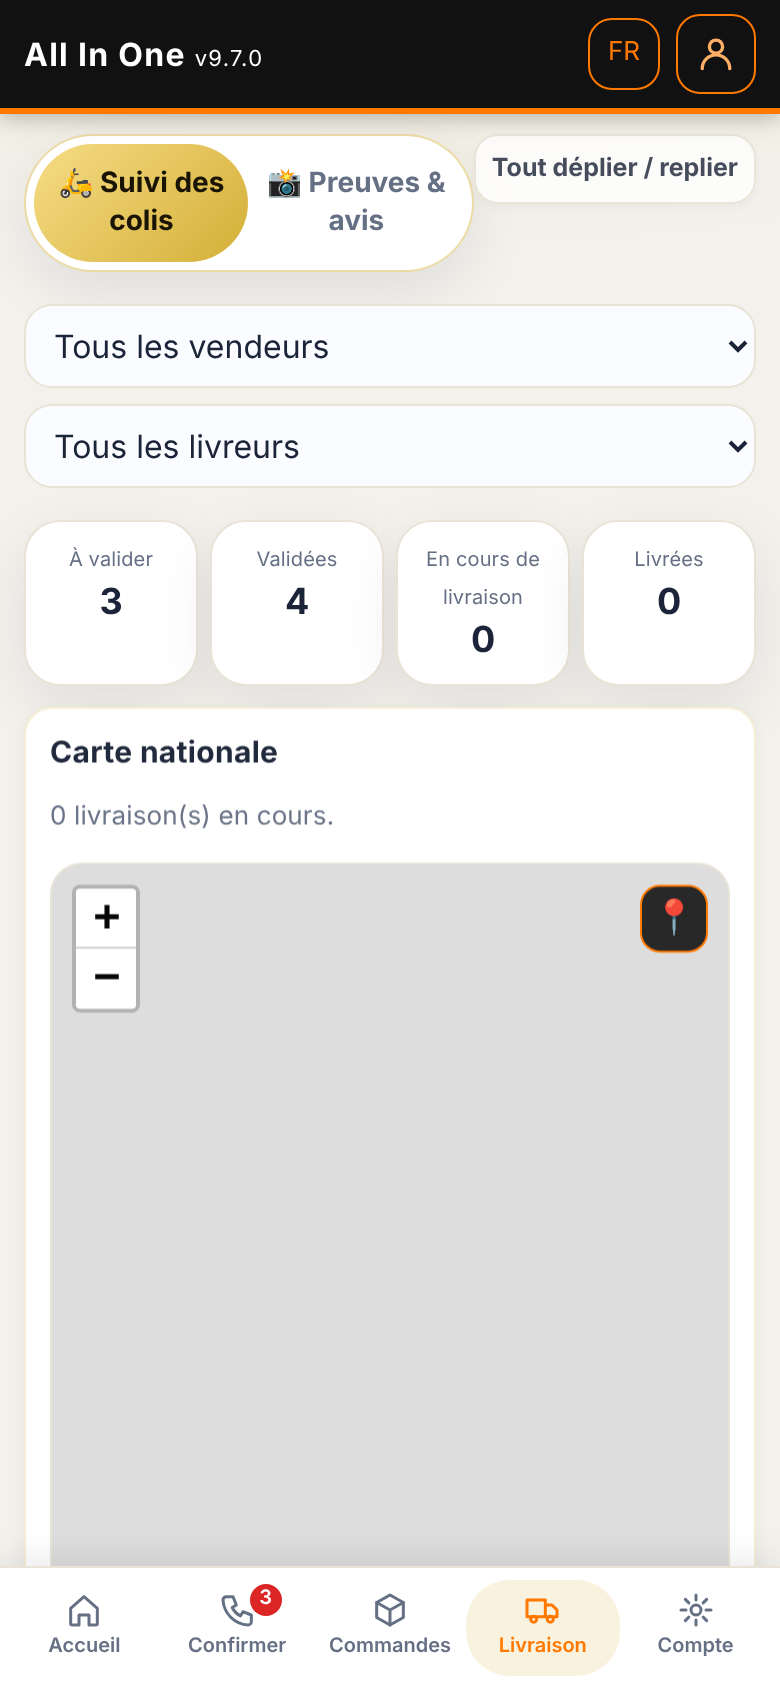
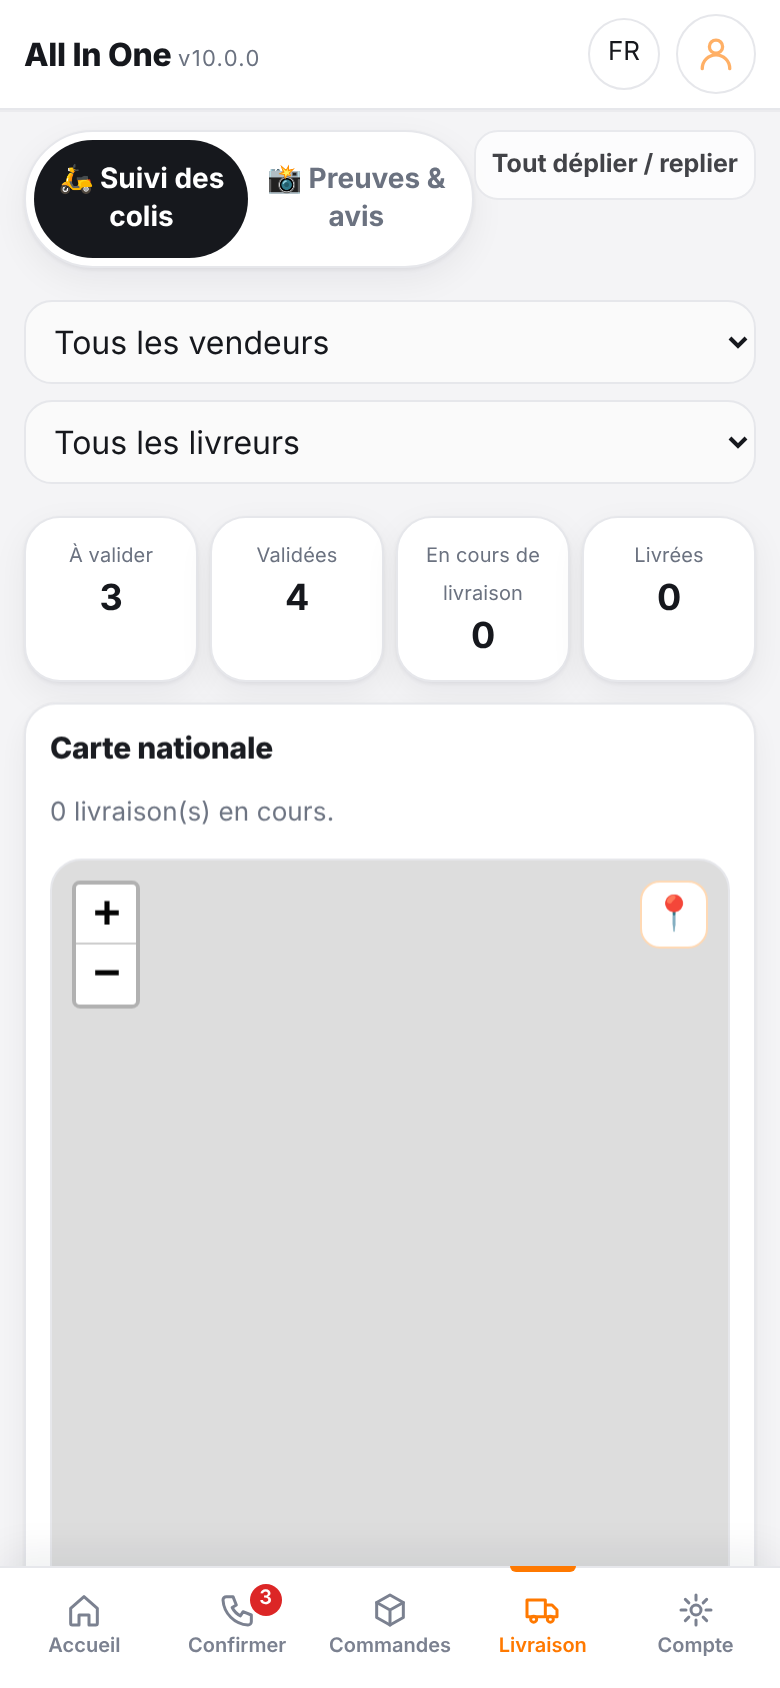
v10.0.0: refonte claire et premium, raccourcis d'accueil, mode d'emploi intégré
Claude-Session: https://claude.ai/code/session_01Q7Zom3BC1tYVNGU7USBKB5

diff --git a/app.js b/app.js
@@ -1,6 +1,6 @@
 /* All In One 8.3.0 - script principal
    Sections repérées : modules réintégrés de la v3 | v5 : code de livraison, avis, demandes, motifs livreur, sati | v6 : catalogue, créneaux, photo de preuve, notifications, da | v7 : automatisations | v7.2 : QR code + NFC (QR hors ligne, aucune dépendance résea | v7.4 : scanner QR (caméra), tags NFC associés, diagnostic */
-var CIT=200000,KEY='cod_v4',OLDKEY='cod_v1',VER='9.7.0',IT=200000;
+var CIT=200000,KEY='cod_v4',OLDKEY='cod_v1',VER='10.0.0',IT=200000;
 var OM={},CXS={l:null};
 var DEFTPL='Bonjour 👋 [boutique] a essayé de vous joindre pour confirmer votre commande de [produit]. Répondez OUI pour confirmer, ou dites-nous à quelle heure vous rappeler. Merci !';
 var DEFSCRIPT='1) Se présenter : « Bonjour, je vous appelle de la part de [boutique]. »\n2) Confirmer le produit, la quantité, le prix et la livraison.\n3) Confirmer la ville et l’adresse exacte (quartier, repère).\n4) Proposer un produit complémentaire ou un pack.\n5) Rappeler : paiement à la livraison, merci de préparer le montant.';
@@ -672,7 +672,7 @@ function morev(){
    ['Développement commercial',[['cat','Catalogue produits','bag','Produits des vendeurs'],['net','Réseau professionnel','net','Grossistes, acheteurs, livreurs'],['deals','Affaires & marges','chart','Intermédiation, simulateur de marge'],['sim','Prévisions de revenus','chart','Projection des commissions'],['pro','Partenariat livraison','truck','Reversements, proposition commerciale']]],
    ['Outils terrain',[['tools','Codes QR & étiquettes NFC','box','Partager, scanner, associer'],['calc','Calculatrice','calc','Calculs rapides']]],
    ['Prospection',[['wl','Carnet de prospects','wallet','Appels sortants et suivi']]],
-   ['Profil & paramètres',[['set','Mon profil','user','Photo, carte, coordonnées','p'],['set','Tarifs & messages','sliders','Commissions, messages types','a'],['set','Sécurité & données','box','Code, biométrie, sauvegarde','s'],['set','Connexions','link','Suivi en direct, import, cloud','c'],['ver','Version & mises à jour','sliders','Version installée, nouveautés, mise à jour']]]];
+   ['Profil & paramètres',[['set','Mon profil','user','Photo, carte, coordonnées','p'],['set','Tarifs & messages','sliders','Commissions, messages types','a'],['set','Sécurité & données','box','Code, biométrie, sauvegarde','s'],['set','Connexions','link','Suivi en direct, import, cloud','c'],['ver','Version & mises à jour','sliders','Version installée, nouveautés, mise à jour'],['aide','Mode d’emploi','chat','Guide pas à pas de chaque écran']]]];
   return mb()+G.map(function(g){return '<div class="sec">'+g[0]+'</div><div class="pg">'+g[1].map(function(i){return '<div class="card tile" data-act="tab" data-v="'+i[0]+'"'+(i[4]?' data-sp="'+i[4]+'"':'')+'><div class="ti">'+ico(i[2])+'</div><b>'+i[1]+'</b><div class="mut">'+i[3]+'</div></div>'}).join('')+'</div>'}).join('');
 }
 function toolv(){return mb()+'<div class="sec">QR code &amp; NFC</div>'+qacc()}
@@ -747,11 +747,11 @@ function render(){
   document.documentElement.dir=(DB&&DB.set.lang==='ar')?'rtl':'ltr';
   if(S.locked||!DB){$('nav').innerHTML='';$('hs').innerHTML='';lockv();return}
   $('ver').textContent='v'+VER;$('hs').innerHTML=hdrAv();$('hs').setAttribute('aria-label','Mon profil');$('hl').textContent=DB.set.lang==='ar'?'AR':'FR';
-  var MORE=['more','pod','wa','rap','auto','vend','fin','tools','cat','net','deals','wl','wn','calc','sim','pro','set','ver'];
+  var MORE=['more','pod','wa','rap','auto','vend','fin','tools','cat','net','deals','wl','wn','calc','sim','pro','set','ver','aide'];
   var pe=DB.orders.filter(function(o){return o.status==='En attente'&&callDue(o)}).length;
   var M=[['home','Accueil','home'],['calls','Confirmer','phone'],['ord','Commandes','box'],['del','Livraison','truck'],['more','Compte','gear']];
   $('nav').innerHTML=M.map(function(m){var on=S.tab===m[0]||(m[0]==='more'&&MORE.indexOf(S.tab)>=0);return '<button data-act="tab" data-v="'+m[0]+'" class="'+(on?'on':'')+'">'+ico(m[2])+T(m[1])+(m[0]==='calls'&&pe?'<span class="bd">'+pe+'</span>':'')+'</button>'}).join('');
-  var V={home:home,calls:calls,ord:ordv,del:delv,vend:vendv,fin:finv,set:setv,more:morev,tools:toolv,cat:catv,net:net,deals:dealsv,wl:wlist,wn:wnew,calc:calcv,sim:simv,pro:prov,ver:verv}[S.tab]||home;
+  var V={home:home,calls:calls,ord:ordv,del:delv,vend:vendv,fin:finv,set:setv,more:morev,tools:toolv,cat:catv,net:net,deals:dealsv,wl:wlist,wn:wnew,calc:calcv,sim:simv,pro:prov,ver:verv,aide:aidev}[S.tab]||home;
   var back=(MORE.indexOf(S.tab)>0)?'<button class="b full sm" data-act="tab" data-v="more" style="margin-bottom:10px">← Compte</button>':'';
   $('app').innerHTML=back+V();
   S.msg='';S.err=false;
@@ -1984,7 +1984,7 @@ function MX(due,pe,gm,s,tr,tc){
   cd=function(t,sb,body,btns){return '<div class="mxc"><h2>'+t+'</h2><div class="mut">'+sb+'</div>'+body+'<div class="btns">'+btns+'</div></div>'};
   return '<div class="mx"><div class="gr">'+(hr<5||hr>=18?'Bonsoir':'Bonjour')+' '+e(nm)+'</div><div class="gs">'+e(sub)+'</div></div>'
    +'<div class="mxw"><div class="deck" id="deck">'
-   +cd('Résumé du mois','Solde au <b style="color:#d4742a">'+dt+'</b>',bx('box','Confirmation',pct(s.ok,tr),'chart',fm(gm)+' <small>DH</small>','Gagné'),bt('Appels ('+due.length+')','calls',1)+bt('Relances','wa')+bt('Ajouter','ord',0,' data-s="add"'))
+   +cd('Résumé du mois','Solde au <b style="color:#c2570a">'+dt+'</b>',bx('box','Confirmation',pct(s.ok,tr),'chart',fm(gm)+' <small>DH</small>','Gagné'),bt('Appels ('+due.length+')','calls',1)+bt('Relances','wa')+bt('Ajouter','ord',0,' data-s="add"'))
    +cd('Livraison','Ce mois-ci',bx('truck','Taux de livraison',pct(s.liv,s.liv+s.ref),'box',(s.ref||0)+' <small>refusées</small>','Refus'),bt('Suivi','del',1)+bt('Preuves & avis','pod'))
    +cd('Finances','Ce mois-ci',bx('chart','À encaisser',fm(tc||0)+' <small>DH</small>','store',DB.vend.length,'Vendeurs'),bt('Finances','fin',1))
    +'</div><div class="dots" id="mdots"><i class="on"></i><i></i><i></i></div></div>';
@@ -3081,7 +3081,7 @@ document.addEventListener('click',function(ev){var t=ev.target;if(t&&t.getAttrib
 
 /* ===== 9.7.0 : menu « Version & mises à jour » ; plus de nom ni de version sur l'accueil ===== */
 var VU={msg:'',t:0,nv:''};
-var NEWS=[['9.7.0','Menu Version & mises à jour ; accueil épuré.'],['9.6.0','Menu Plus en groupes ; liste noire automatique ; alerte colis en retard.'],['9.5.0','Écrans simplifiés : l’essentiel d’abord, le reste dans « Plus d’options ».'],['9.4.0','Historique du colis, retour sous 7 jours, commander à nouveau, preuve d’achat.'],['9.3.0','Suivi client en chronologie datée avec détail de la commande.']];
+var NEWS=[['10.0.0','Nouveau design clair et premium, raccourcis sur l’accueil, mode d’emploi intégré.'],['9.7.0','Menu Version & mises à jour ; accueil épuré.'],['9.6.0','Menu Plus en groupes ; liste noire automatique ; alerte colis en retard.'],['9.5.0','Écrans simplifiés : l’essentiel d’abord, le reste dans « Plus d’options ».'],['9.4.0','Historique du colis, retour sous 7 jours, commander à nouveau, preuve d’achat.'],['9.3.0','Suivi client en chronologie datée avec détail de la commande.']];
 function verv(){
   var sa=false;try{sa=window.matchMedia('(display-mode: standalone)').matches||navigator.standalone===true}catch(x){}
   var on=navigator.onLine!==false;
@@ -3111,3 +3111,21 @@ function vApply(){
 document.addEventListener('click',function(ev){var b=ev.target.closest&&ev.target.closest('[data-vu]');if(!b)return;ev.stopPropagation();
   if(b.getAttribute('data-vu')==='chk')vCheck();else if(b.getAttribute('data-vu')==='apply')vApply()},true);
 (function(){var _r7=render;render=function(){_r7();try{var h=document.querySelector('header h1');if(h)h.style.visibility=(S.tab==='home'&&DB&&!S.locked)?'hidden':''}catch(x){}}})();
+
+/* ===== 10.0.0 : refonte clair & premium, raccourcis d'accueil, mode d'emploi intégré ===== */
+var AIDE=[
+['Démarrer en 3 minutes',['Ouvrez l’onglet « Compte » puis « Vendeurs partenaires » et touchez « Ajouter un vendeur ».','Ajoutez vos commandes : bouton « Ajouter » dans Commandes, ou importez un fichier (exemple-commandes.csv).','Allez dans « Confirmer » : appelez chaque client, puis touchez Confirmé ou Annulé.','Envoyez le lien de suivi au client : il suit son colis comme sur Jumia.']],
+['Accueil',['Il résume la journée : commandes en attente, taux de confirmation, gains en DH.','Les raccourcis ronds ouvrent directement Confirmer, Commandes, Livraison et Vendeurs.','« À vérifier » liste les commandes sans livreur ou à corriger.']],
+['Confirmer les commandes',['Appeler ouvre le téléphone. Confirmé valide, Annulé clôt la commande.','Après 3 tentatives sans réponse, le client est marqué injoignable et relancé par WhatsApp.','« Plus d’options » contient les actions rares : note, report, modification.']],
+['Commandes',['Filtrez par vendeur, statut, ou tapez un nom dans « Rechercher ».','Une commande livrée propose « Historique du colis » et « Commander à nouveau ».','Retour gratuit affiché pendant 7 jours après la livraison.']],
+['Livraison et suivi client',['Les compteurs montrent à valider, validées, en cours et livrées.','Le client reçoit un lien avec la chronologie datée de son colis.','Un code secret protège la remise ; la preuve de livraison est conservée.']],
+['Vendeurs et finances',['Chaque vendeur a sa fiche, son QR code et ses commissions.','« Finances » affiche total gagné, déjà reçu et à encaisser, par vendeur et par ville.','Solde négatif : le vendeur vous doit de l’argent. Positif : crédit déjà payé.']],
+['Automatisations',['Relances WhatsApp prêtes à envoyer pour les clients injoignables.','Liste noire automatique des clients qui refusent trop souvent.','Alerte quand un colis est en retard.','Réglage : Compte → Pilotage → Automatisations.']],
+['Données, sécurité et mises à jour',['Vos données restent chiffrées sur votre appareil. Sauvegardez-les régulièrement : Compte → Sécurité & données.','Compte → Version & mises à jour : cherchez et installez la dernière version sans rien perdre.','Hors ligne, l’appli continue de fonctionner ; tout se synchronise au retour du réseau.']]];
+function aidev(){
+  return mb()+'<div class="sec">Mode d’emploi</div><div class="card"><b>Bienvenue dans All In One</b><p class="mut" style="margin:4px 0 0">Touchez un sujet pour le déplier. Chaque étape se fait en quelques touches.</p></div>'
+   +AIDE.map(function(a,i){return '<details class="mg" data-om="aide'+i+'"'+(i===0?' open':'')+'><summary>'+(i+1)+'. '+e(a[0])+'</summary><div class="card"><ol class="aid">'+a[1].map(function(x){return '<li>'+e(x)+'</li>'}).join('')+'</ol></div></details>'}).join('')
+   +'<div class="card"><p class="mut">Une question ? Écrivez-nous : <a href="mailto:logisticsallinoneamk@gmail.com">logisticsallinoneamk@gmail.com</a></p></div>'}
+(function(){var _r10=render;render=function(){_r10();try{var a=document.getElementById('app');if(!a)return;var old=document.getElementById('qa10');if(old)old.remove();
+  if(S.tab==='home'&&DB&&!S.locked&&a.firstChild){var q=[['calls','Confirmer','phone'],['ord','Commandes','box'],['del','Livraison','truck'],['vend','Vendeurs','store'],['aide','Aide','chat']];
+   var d=document.createElement('div');d.id='qa10';d.className='qa';d.innerHTML=q.map(function(x){return '<button class="qb" data-act="goto" data-v="'+x[0]+'"><span class="qi">'+ico(x[2])+'</span><span>'+x[1]+'</span></button>'}).join('');a.insertBefore(d,a.firstChild)}}catch(x){}}})();

diff --git a/styles.css b/styles.css
@@ -454,3 +454,62 @@ details.mg>summary::-webkit-details-marker{display:none}
 details.mg>summary:after{content:"›";float:right;transition:transform .15s}
 details.mg[open]>summary:after{transform:rotate(90deg)}
 details.mg>.pg{margin-top:8px}
+
+/* ===== 10.0.0 : design clair & premium (inspiré des grandes plateformes : fond blanc, orange vif, noir de contraste) ===== */
+:root,:root:root{color-scheme:light;--bg:#f4f4f6;--card:#fff;--tx:#16181d;--mut:#6b7280;--br:#e6e7eb;--ac:#d95700;--gold:#ff7900;--gold2:#ffb066;--ok:#15803d;--okbg:#e5f6ec;--ko:#b42318;--kobg:#fdecea;--wa:#9a5b00;--wabg:#fff3e0;--in:#fafafa;--rad:16px;--sh:0 1px 2px rgba(16,24,40,.06),0 6px 18px rgba(16,24,40,.06)}
+@media (prefers-color-scheme:dark){:root,:root:root{--bg:#f4f4f6;--card:#fff;--tx:#16181d;--mut:#6b7280;--br:#e6e7eb;--ac:#d95700;--ok:#15803d;--okbg:#e5f6ec;--ko:#b42318;--kobg:#fdecea;--wa:#9a5b00;--wabg:#fff3e0;--in:#fafafa}}
+body{background:var(--bg);color:var(--tx);font-family:"Inter",-apple-system,"Segoe UI",system-ui,Roboto,Arial,sans-serif}
+header{background:#fff!important;border-bottom:1px solid var(--br)!important;box-shadow:0 1px 0 rgba(16,24,40,.04)!important;-webkit-backdrop-filter:none;backdrop-filter:none}
+header h1,header h1 small{color:var(--tx)!important}
+header h1{font-weight:800;letter-spacing:-.01em}header h1 small{color:var(--mut)!important}
+header button{background:#fff!important;border:1px solid var(--br)!important;color:var(--tx)!important;border-radius:999px}
+h2{font-weight:800;letter-spacing:-.01em;color:var(--tx)}
+.card{background:#fff;border:1px solid var(--br);box-shadow:var(--sh);border-radius:var(--rad)}
+.sec{color:var(--tx);font-weight:800;letter-spacing:.12em}
+.sec:after{background:linear-gradient(90deg,#ff7900,transparent)}
+.b{border-radius:12px;border:1px solid var(--br);background:#fff;color:var(--tx);box-shadow:none}
+.b.pri{background:#ff7900;color:#fff;border-color:#ff7900;box-shadow:0 6px 14px rgba(255,121,0,.28);font-weight:800}
+.b.pri:active{background:#e86d00}
+.b.ok{background:var(--okbg);color:var(--ok)}.b.ko{background:var(--kobg);color:var(--ko)}
+input:focus,select:focus,textarea:focus{outline:2px solid #ff7900}
+.chip.on{background:#16181d;border-color:#16181d;color:#fff}
+.tag{background:var(--wabg);color:var(--wa)}
+/* accueil */
+.hero{background:#fff!important;color:var(--tx)!important;border:1px solid var(--br)!important;box-shadow:var(--sh)}
+.hero .mut,.hero .arr{color:var(--ac)!important}
+.bn,.bn.g2,.bn.g3{border:0;color:#fff;box-shadow:0 10px 24px rgba(16,24,40,.12)}
+.bn{background:linear-gradient(135deg,#ff7900,#ff9d3d)}
+.bn.g2{background:linear-gradient(135deg,#16181d,#3a3f4a)}
+.bn.g3{background:linear-gradient(135deg,#0f766e,#14b8a6)}
+.bn small{color:rgba(255,255,255,.85)}
+.bn span.go{background:#fff;color:#16181d}
+.bn:after{background:radial-gradient(circle,rgba(255,255,255,.28),transparent 70%)}
+.dots i.on{background:#ff7900}
+.qa{display:grid;grid-template-columns:repeat(5,1fr);gap:6px;margin:0 0 12px}
+.qb{border:0;background:none;display:flex;flex-direction:column;align-items:center;gap:6px;font:inherit;font-size:11.5px;font-weight:700;color:var(--tx);cursor:pointer;padding:4px 0}
+.qb .qi{width:52px;height:52px;border-radius:50%;background:#fff3e6;color:#ff7900;display:flex;align-items:center;justify-content:center;border:1px solid #ffd9b3;transition:transform .12s}
+.qb .qi svg{width:24px;height:24px}
+.qb:active .qi{transform:scale(.92);background:#ff7900;color:#fff}
+/* tuiles et menus */
+.tile .ti{background:#fff3e6;color:#ff7900}
+details.mg>summary{background:#fff;border:1px solid var(--br);border-radius:14px;font-weight:700}
+ol.aid{margin:0;padding-left:20px}ol.aid li{padding:5px 0;line-height:1.45}
+/* navigation basse */
+nav{background:#fff!important;border-top:1px solid var(--br)!important;box-shadow:0 -6px 20px rgba(16,24,40,.07)!important}
+nav button{color:#7b8190!important}
+nav button.on{color:#ff7900!important;background:none!important;position:relative}
+nav button.on:before{content:"";position:absolute;top:-7px;left:28%;right:28%;height:3px;border-radius:0 0 4px 4px;background:#ff7900}
+nav button.on .i{color:#ff7900!important}
+.locbtn{background:#fff;color:#ff7900;border-color:#ffd9b3}
+@media (max-width:360px){.qb .qi{width:46px;height:46px}.qb{font-size:10.5px}}
+/* 10.0.0 – finitions : bandeau d'accueil, onglets, avatars */
+.mx{background:linear-gradient(135deg,#ff7900,#ff9d3d 70%,#ffb066)!important;color:#fff!important}
+.gr{color:#fff}.gs{color:#fff!important;opacity:.95}
+.mx .mut,.mx small{color:rgba(255,255,255,.9)}
+.seg{border:1px solid var(--br)!important;background:#fff}
+.seg button.on{background:#16181d!important;color:#fff!important}
+.av,.dc .orb{background:#ffe8d1!important;color:#c2570a!important}
+.k.o{background:#ff7900!important;color:#fff!important}
+.bars i.n,.pbar i{background:#ff7900!important}
+.pfc:before{background:#ff7900!important}
+.chip.on{background:#16181d!important}

diff --git a/sw.js b/sw.js
@@ -1,4 +1,4 @@
-var V='cod-v65',T='cod-tiles-v3',F=['./','index.html','styles.css','app.js','cloud.js','manifest.webmanifest','icon-192.png','icon-512.png','icon-512-maskable.png','privacy.html','vendor/leaflet/leaflet.js','vendor/leaflet/leaflet.css'];
+var V='cod-v66',T='cod-tiles-v3',F=['./','index.html','styles.css','app.js','cloud.js','manifest.webmanifest','icon-192.png','icon-512.png','icon-512-maskable.png','privacy.html','vendor/leaflet/leaflet.js','vendor/leaflet/leaflet.css'];
 var API=/firebaseio\.com|router\.project-osrm\.org|nominatim\.openstreetmap\.org|photon\.komoot\.io/;
 var TILE=/basemaps\.cartocdn\.com|tile\.openstreetmap\.org|cdnjs\.cloudflare\.com/;
 var LINK=/[?&](t|l|v|go|card|cf|rep)=/;

diff --git a/index.html b/index.html
@@ -4,7 +4,7 @@
 <meta http-equiv="Content-Security-Policy" content="default-src 'self'; script-src 'self'; style-src 'self' 'unsafe-inline'; img-src 'self' data: blob: https:; font-src 'self' data:; connect-src 'self' https:; frame-src 'none'; object-src 'none'; base-uri 'self'; form-action 'self'">
 <title>All In One · Amk Logistique</title>
 <link rel="manifest" href="manifest.webmanifest">
-<meta name="theme-color" content="#14213d">
+<meta name="theme-color" content="#ffffff">
 <link rel="icon" href="icon-192.png">
 <link rel="apple-touch-icon" href="icon-192.png">
 <link rel="stylesheet" href="styles.css"></head>

diff --git a/README.md b/README.md
@@ -35,6 +35,11 @@ La clé propriétaire donne les droits de publication et de lecture des suivis :
 1. GitHub > dépôt > Add file > Upload files : envoyer les fichiers ci-dessus, puis Commit changes.
 2. Rouvrir l'appli deux fois (mise à jour du cache). Le numéro de version s'affiche en haut.
 
+## Changements v10.0.0
+- Refonte visuelle : thème clair et épuré (blanc, orange vif, noir de contraste), en-tête blanc, navigation basse avec indicateur orange, bandeau d'accueil orange.
+- Raccourcis ronds sur l'accueil : Confirmer, Commandes, Livraison, Vendeurs, Aide.
+- **Mode d'emploi** intégré (Compte → Profil & paramètres) : 8 sujets dépliables.
+
 ## Changements v9.7.0
 - Nouveau menu **Compte → Profil & paramètres → Version & mises à jour** : version installée, recherche de mise à jour, bouton « Mettre à jour » (vide le cache sans toucher aux données), nouveautés.
 - Le nom et la version ne s'affichent plus sur la page d'accueil.
